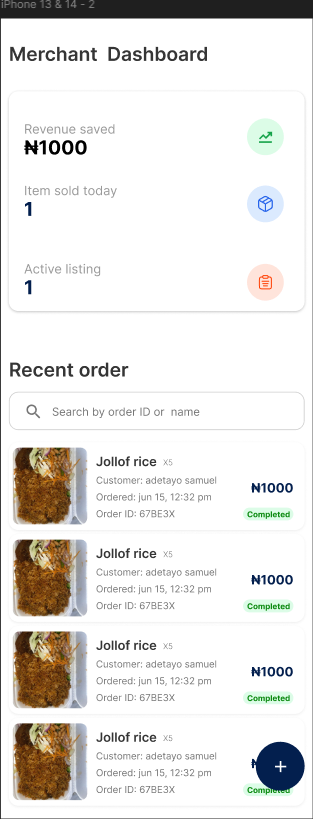
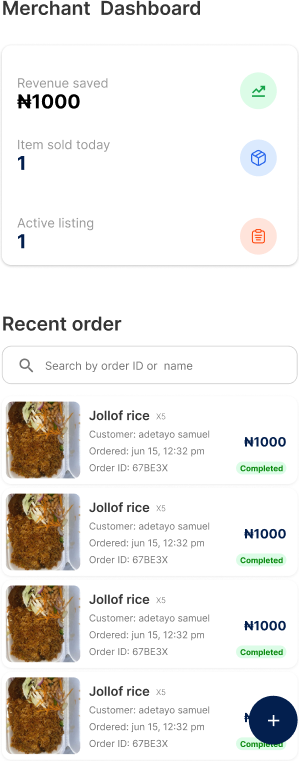
Add new screens, auto-crop them, and expand masonry grid to 9 items

diff --git a/quiklyy.html b/quiklyy.html
@@ -176,15 +176,18 @@
         <p class="cs-text" style="max-width: 600px; margin: 0 auto 3rem; text-align: center;">A closer look at the core user interfaces, featuring the Merchant Dashboard, Item Details, Shopping, Cart, Recent Purchase, and Sign Up flow.</p>
         <div class="masonry-grid">
             <div class="masonry-col">
-                <img src="assets/Sign up screen.png" alt="Sign Up Screen">
+                <img src="assets/Log in screen 1.png" alt="Log In Screen 1">
                 <img src="assets/Shopping screen.png" alt="Shopping Screen">
-            </div>
-            <div class="masonry-col">
-                <img src="assets/Item details.png" alt="Item Details">
                 <img src="assets/Cart screen.png" alt="Cart Screen">
             </div>
             <div class="masonry-col">
+                <img src="assets/Personal sign up.png" alt="Personal Sign Up">
+                <img src="assets/Item details.png" alt="Item Details">
                 <img src="assets/Merchant dashboard.png" alt="Merchant Dashboard">
+            </div>
+            <div class="masonry-col">
+                <img src="assets/Business sign up.png" alt="Business Sign Up">
+                <img src="assets/Log in screen 2.png" alt="Log In Screen 2">
                 <img src="assets/Recent purchase .png" alt="Recent Purchase">
             </div>
         </div>
